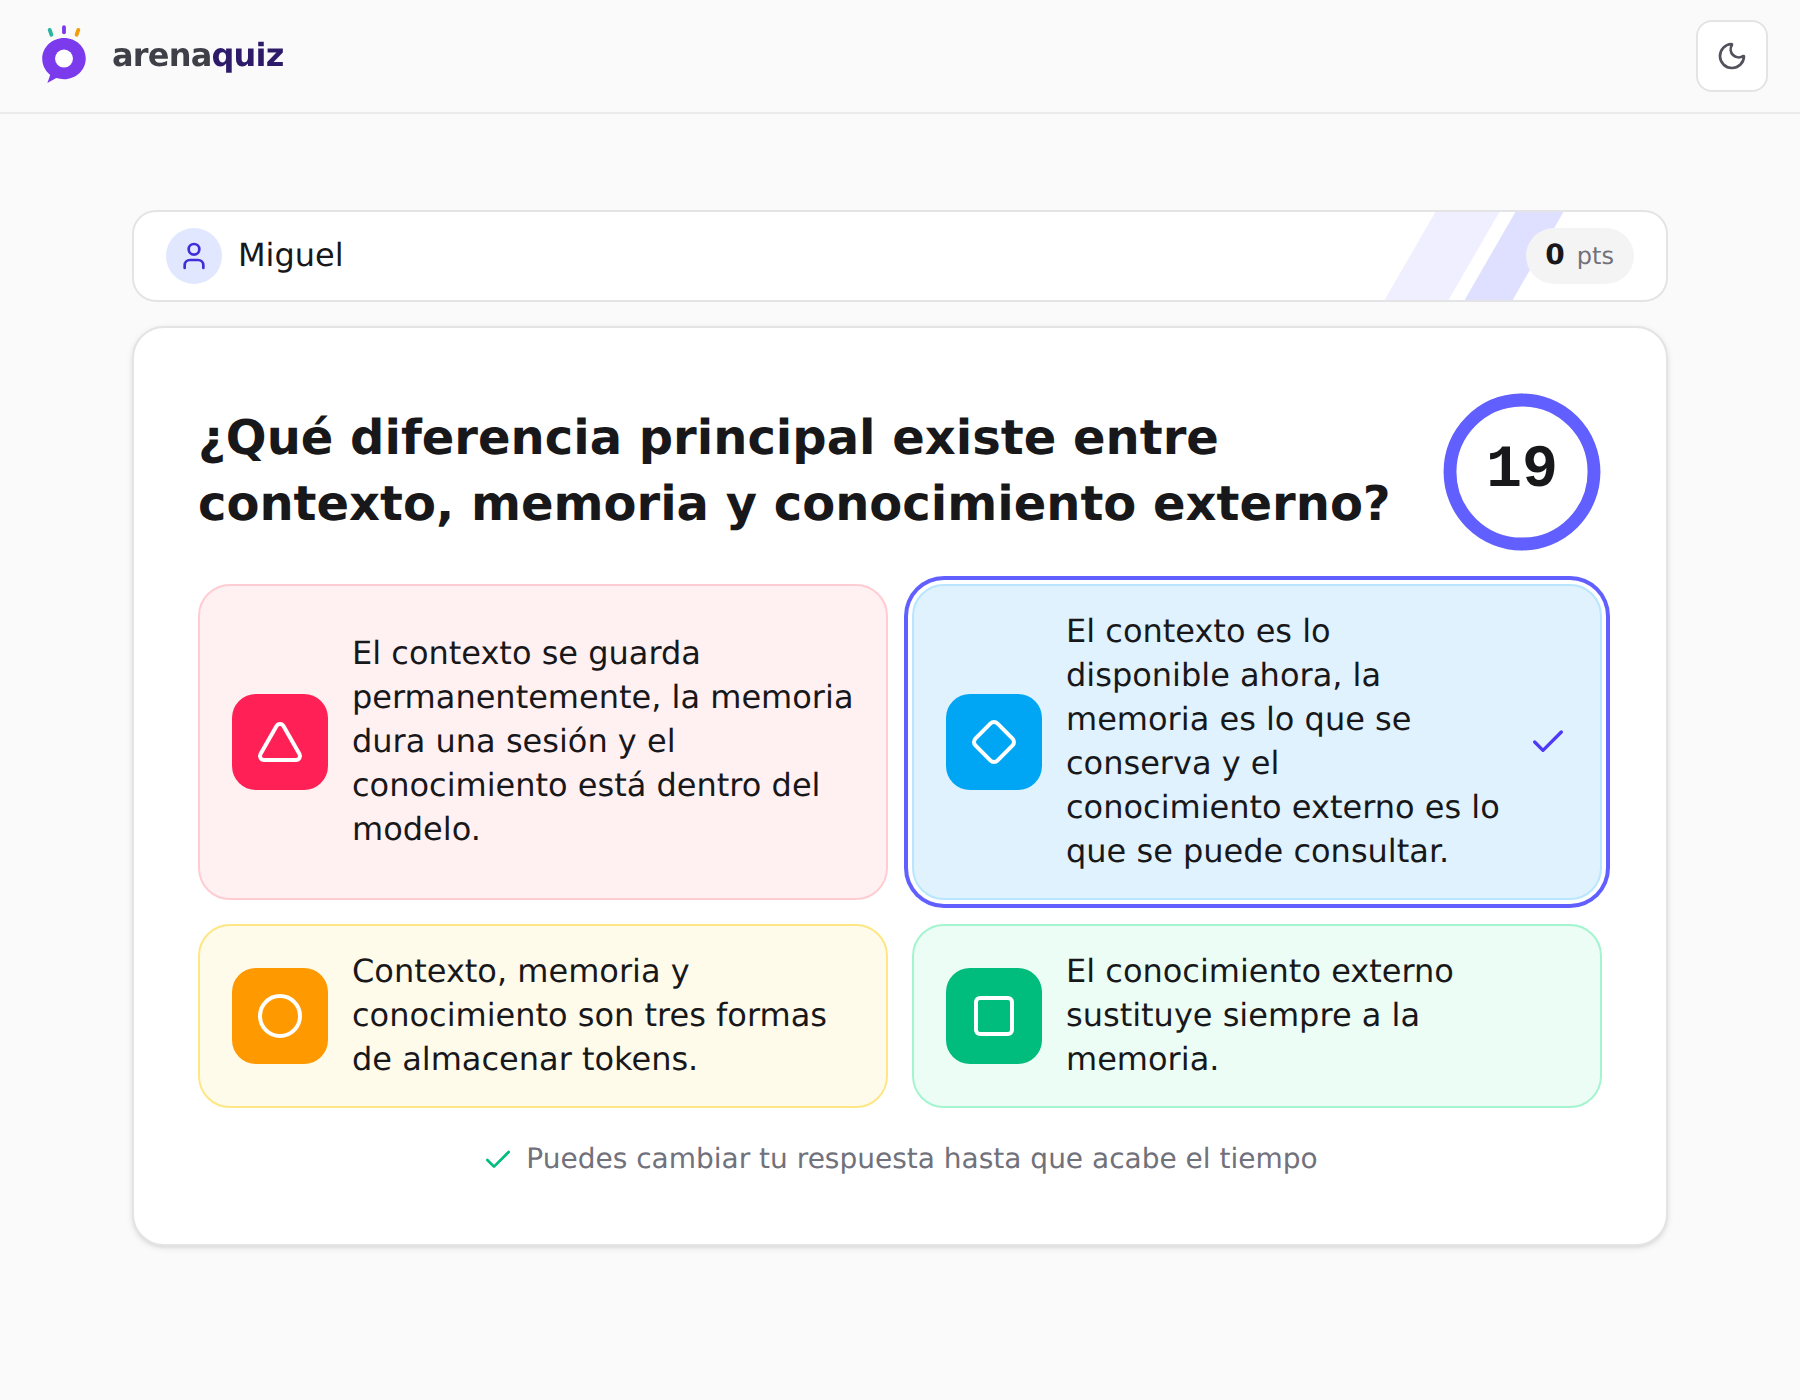
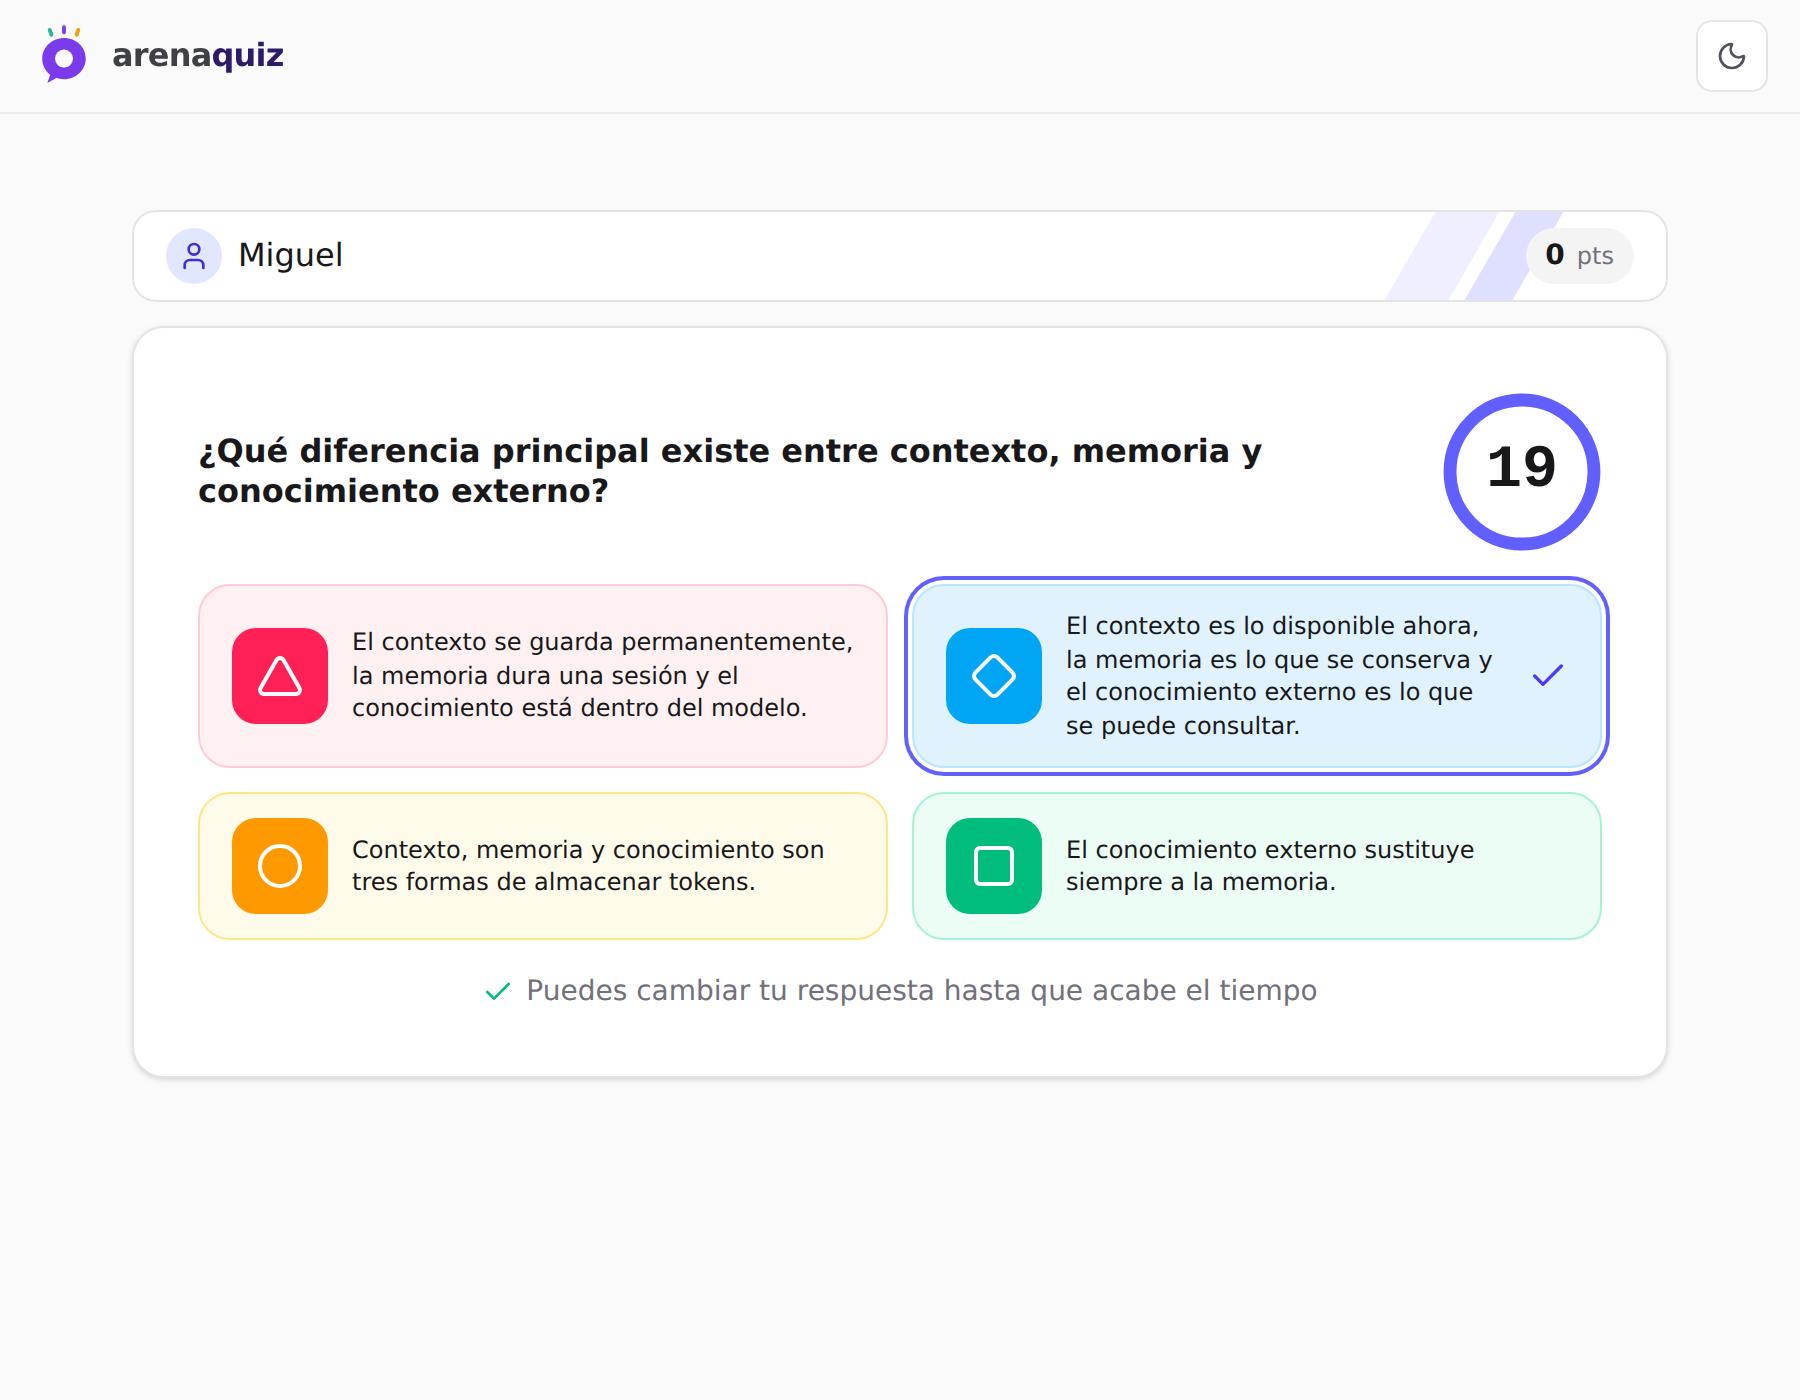
Corrige promesas sin esperar (Sonar S9383) y regenera capturas
Marca con void las llamadas a funciones async sin await (submit, addQuestion,
createRoom, finishSurvey, loadOpenRooms, join). Regenera las capturas, que
no reflejaban la reducción de tamaño de texto.

Claude-Session: https://claude.ai/code/session_01YBAeW5YNLtEYnfQzi9PQcj

Changed region(s): [[0.0933, 0.43, 0.9022, 0.8293], [0.0933, 0.2764, 0.7778, 0.3686]]

diff --git a/src/App.jsx b/src/App.jsx
@@ -920,7 +920,7 @@ function AdminAuth({ onBack }) {
             className="space-y-4"
             onSubmit={(e) => {
               e.preventDefault()
-              submit()
+              void submit()
             }}
           >
             <div>
@@ -1113,7 +1113,7 @@ function QuestionBank({ session, onBack }) {
             className="space-y-3 rounded-xl border border-zinc-200 bg-zinc-50 p-4 dark:border-zinc-800 dark:bg-zinc-900/50"
             onSubmit={(e) => {
               e.preventDefault()
-              addQuestion()
+              void addQuestion()
             }}
           >
             <p className="text-sm font-semibold">Nueva pregunta</p>
@@ -1451,7 +1451,7 @@ function CreateRoom({ session, setRoom, onBack }) {
             className="space-y-6"
             onSubmit={(e) => {
               e.preventDefault()
-              createRoom()
+              void createRoom()
             }}
           >
             <div>
@@ -1731,7 +1731,7 @@ function AdminRoom({ room, setRoom, onExit }) {
   // por las preguntas restantes.
   const skipSurvey = () => {
     if (window.confirm('¿Terminar la encuesta y mostrar el ranking? Se omitirán las preguntas restantes.')) {
-      finishSurvey()
+      void finishSurvey()
     }
   }
 
@@ -2042,7 +2042,7 @@ function ParticipantApp({ initialRoomCode, onHome }) {
 
   useEffect(() => {
     if (participant || initialRoomCode) return
-    loadOpenRooms()
+    void loadOpenRooms()
   }, [participant, initialRoomCode])
 
   const usernameError = validateUsername(username)
@@ -2092,7 +2092,7 @@ function ParticipantApp({ initialRoomCode, onHome }) {
             className="space-y-5"
             onSubmit={(e) => {
               e.preventDefault()
-              join()
+              void join()
             }}
           >
             <div>
